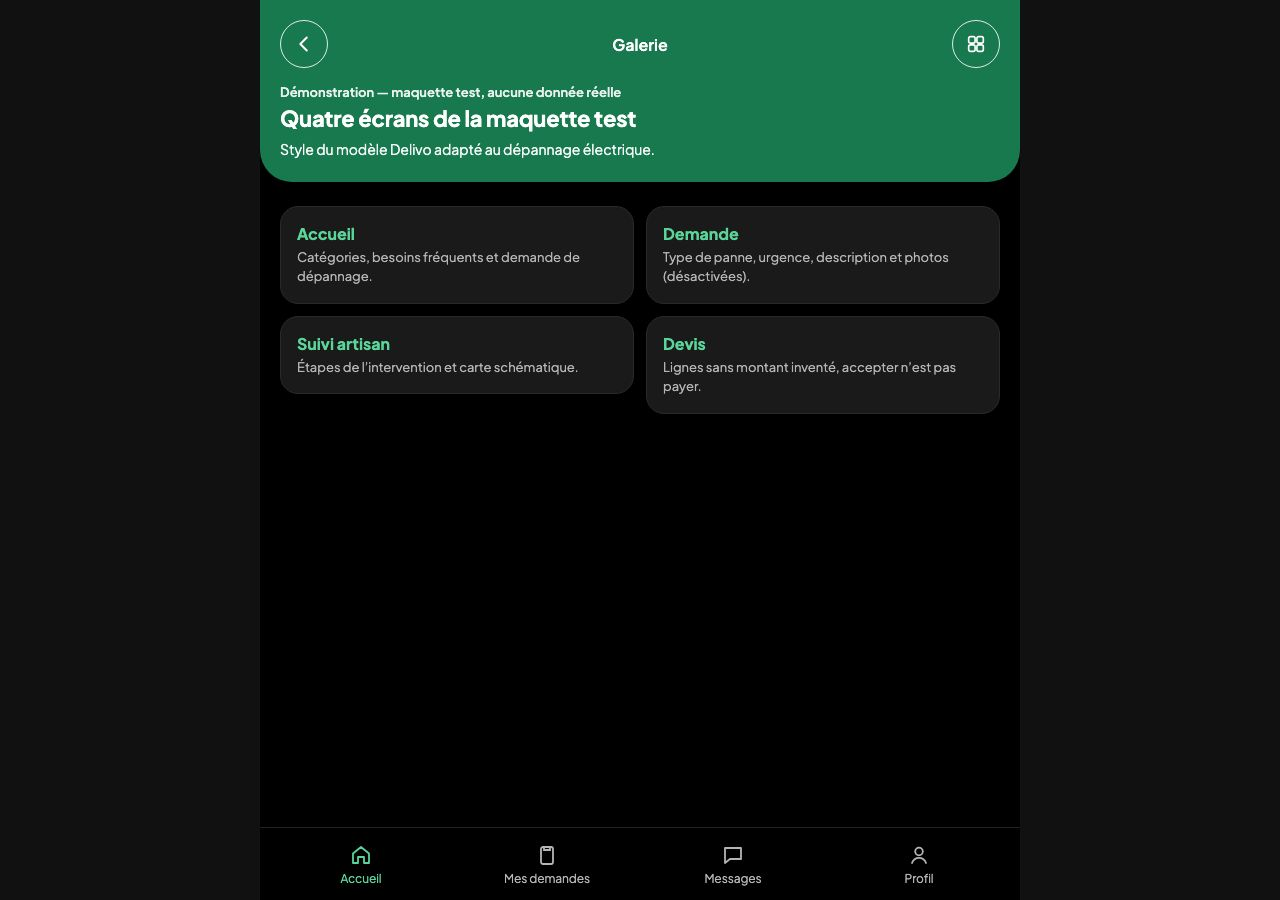
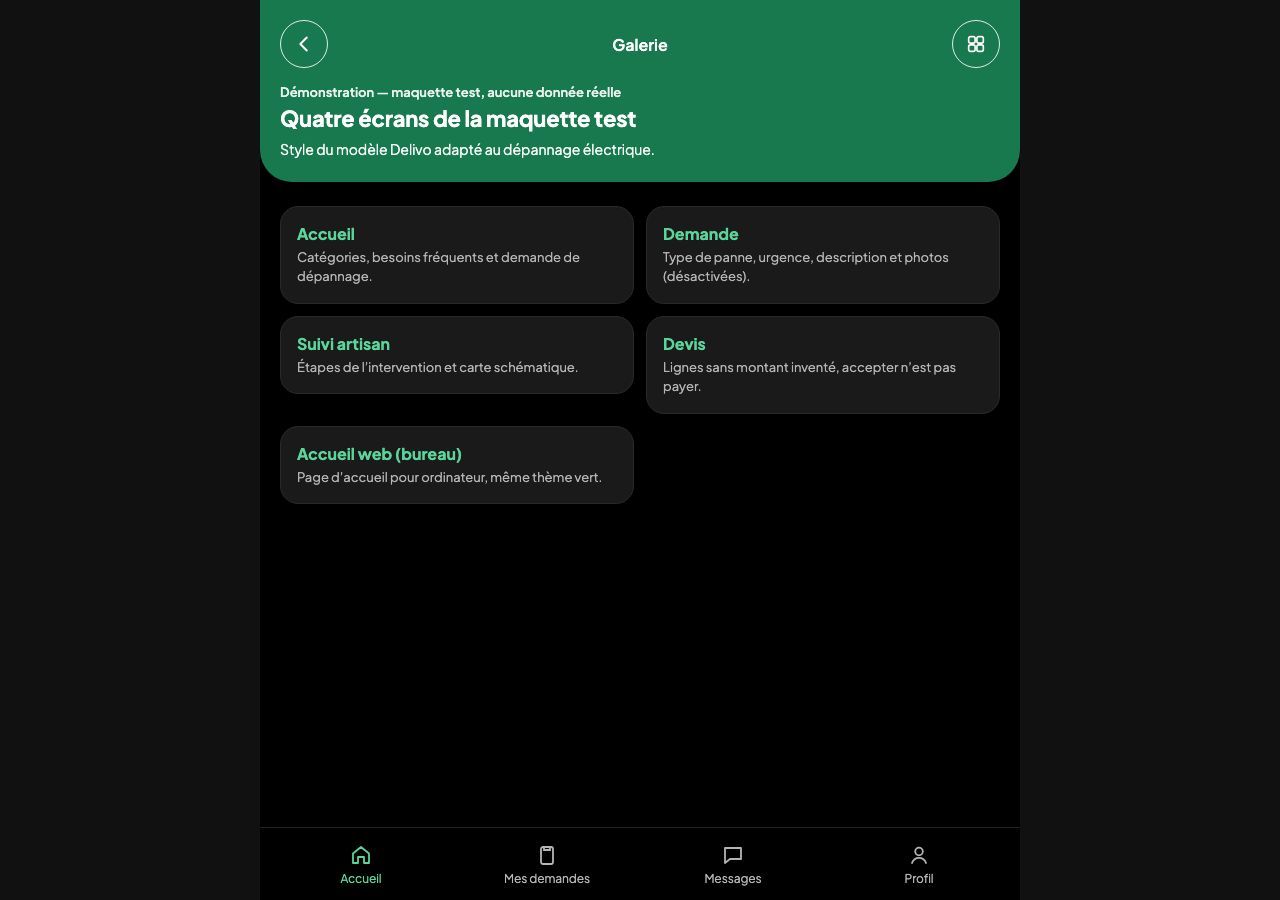
feat(prototype): desktop web home in the green theme (DESIGN-DELIVO-WEB-TEST-004)
web.html + web.css designed for 1440 (1200 px container), adapted to
1280 and 390: horizontal nav with the courant wordmark and "Dépannage
électrique", wide static PUBLICITÉ slot (local dialog only), two-column
hero with "Décrire ma panne" -> demande.html (address not put in the
URL) and the M41 image, 4 services, 3-step journey (indicative
estimate, quote before any intervention, payment as a separate step,
no timing), CTA band, sober footer; gallery link. No reviews, prices,
delays, stats or companies; no external request. 1440/1280/390: no
overflow, 44 px targets, min text contrast 5.41:1, focus, Escape;
captures web-1440/1280/390 and web-1440-focus.

Changed region(s): [[0.2188, 0.4667, 0.5, 0.56]]

diff --git a/prototypes/delivo-test/web.css b/prototypes/delivo-test/web.css
@@ -1,0 +1,139 @@
+/* Maquette test — accueil WEB bureau (DESIGN-DELIVO-WEB-TEST-004). Thème vert forêt / noir / Plus Jakarta Sans.
+   #18794E : fonds et boutons (texte blanc 5,41:1) ; #5BD49A : texte/actifs sur sombre (≥ 6,77:1). */
+@font-face { font-family: "Plus Jakarta Sans"; font-weight: 400; font-display: swap; src: url("assets/fonts/plus-jakarta-sans-400.ttf") format("truetype"); }
+@font-face { font-family: "Plus Jakarta Sans"; font-weight: 500; font-display: swap; src: url("assets/fonts/plus-jakarta-sans-500.ttf") format("truetype"); }
+@font-face { font-family: "Plus Jakarta Sans"; font-weight: 600; font-display: swap; src: url("assets/fonts/plus-jakarta-sans-600.ttf") format("truetype"); }
+@font-face { font-family: "Plus Jakarta Sans"; font-weight: 700; font-display: swap; src: url("assets/fonts/plus-jakarta-sans-700.ttf") format("truetype"); }
+
+:root {
+  --primary: #18794e;
+  --accent: #5bd49a;
+  --dark-green: #0e3b26;
+  --dark-green-line: #1f5c3d;
+  --bg: #000;
+  --surface: #141414;
+  --card: #1a1a1a;
+  --line: #2a2a2a;
+  --muted: #b5b5b5;
+  --white: #fff;
+}
+* { box-sizing: border-box; }
+html, body { margin: 0; background: var(--bg); color: var(--white); font-family: "Plus Jakarta Sans", sans-serif; font-size: 16px; line-height: 1.5; }
+a { color: inherit; }
+:focus-visible { outline: 3px solid var(--accent); outline-offset: 3px; border-radius: 8px; }
+.wrap { width: 100%; max-width: 1200px; margin: 0 auto; padding: 0 32px; }
+.skip { position: absolute; left: 16px; top: -60px; z-index: 10; padding: 10px 14px; border-radius: 10px; background: var(--white); color: #000; font-weight: 600; }
+.skip:focus { top: 12px; }
+
+/* Boutons */
+.btn { display: inline-flex; align-items: center; justify-content: center; gap: 8px; min-height: 48px; padding: 0 22px; border-radius: 14px; border: 0; font: inherit; font-size: 15px; font-weight: 600; text-decoration: none; white-space: nowrap; cursor: pointer; }
+.btn-primary { background: var(--primary); color: var(--white); }
+.btn-primary:hover { background: #136640; }
+.btn-ghost { background: transparent; color: var(--white); border: 1.5px solid #3a3a3a; }
+.btn-dark { background: #000; color: var(--white); }
+.btn-outline-light { background: transparent; color: var(--white); border: 1.5px solid rgba(255, 255, 255, 0.8); }
+.link { display: inline-flex; align-items: center; gap: 6px; min-height: 44px; color: var(--accent); font-weight: 600; text-decoration: none; }
+.link:hover { text-decoration: underline; }
+
+/* Barre haute */
+.topbar { position: sticky; top: 0; z-index: 5; background: rgba(0, 0, 0, 0.92); border-bottom: 1px solid var(--line); backdrop-filter: saturate(140%) blur(6px); }
+.topbar-inner { display: flex; align-items: center; gap: 28px; min-height: 76px; }
+.brand { display: inline-flex; align-items: center; gap: 12px; min-height: 48px; text-decoration: none; }
+.brand-mark { display: inline-flex; align-items: center; justify-content: center; width: 40px; height: 40px; border-radius: 12px; background: var(--primary); color: var(--white); }
+.brand-text { display: flex; flex-direction: column; line-height: 1.15; }
+.brand-text strong { font-size: 20px; font-weight: 700; letter-spacing: -0.3px; }
+.brand-text small { font-size: 12px; color: var(--muted); }
+.mainnav { display: flex; gap: 4px; margin-left: 8px; }
+.mainnav a { display: inline-flex; align-items: center; min-height: 44px; padding: 0 14px; border-radius: 10px; color: #e8e8e8; font-size: 15px; font-weight: 500; text-decoration: none; }
+.mainnav a:hover { background: #151515; color: var(--accent); }
+.topbar-actions { display: flex; gap: 10px; margin-left: auto; }
+
+main { padding-bottom: 72px; }
+.demo-tag { margin: 18px 0 12px; font-size: 13px; font-weight: 600; color: var(--accent); }
+
+/* Bandeau publicitaire large et statique */
+.ad { position: relative; display: block; height: 120px; overflow: hidden; border-radius: 20px; border: 1.5px dashed rgba(255, 255, 255, 0.55); background: var(--dark-green); text-decoration: none; }
+.ad-label { position: absolute; left: 16px; top: 14px; padding: 3px 10px; border-radius: 8px; background: rgba(0, 0, 0, 0.72); font-size: 12px; font-weight: 700; letter-spacing: 0.8px; }
+.ad-body { position: absolute; inset: 0; display: flex; align-items: center; justify-content: center; gap: 12px; font-size: 18px; font-weight: 600; }
+.ad-body svg { color: var(--accent); }
+.ad .ad-media { position: absolute; inset: 0; width: 100%; height: 100%; object-fit: cover; }
+
+/* Héros deux colonnes */
+.hero { display: grid; grid-template-columns: minmax(0, 1.05fr) minmax(0, 1fr); gap: 56px; align-items: center; padding: 56px 0 24px; }
+.eyebrow { margin: 0 0 12px; font-size: 14px; font-weight: 700; letter-spacing: 0.6px; text-transform: uppercase; color: var(--accent); }
+.hero h1 { margin: 0 0 18px; font-size: 52px; line-height: 1.08; font-weight: 700; letter-spacing: -1.2px; }
+.lead { margin: 0 0 28px; max-width: 560px; font-size: 18px; color: #d4d4d4; }
+.hero-form label { display: block; margin-bottom: 8px; font-size: 14px; font-weight: 600; color: #e8e8e8; }
+.hero-field { display: flex; align-items: center; gap: 10px; padding: 8px 8px 8px 18px; border-radius: 18px; background: var(--card); border: 1px solid var(--line); max-width: 560px; }
+.hero-field svg { flex-shrink: 0; color: var(--accent); }
+.hero-field input { flex: 1; min-width: 0; height: 48px; border: 0; background: transparent; color: var(--white); font: inherit; font-size: 16px; outline: none; }
+.hero-field input::placeholder { color: #8f8f8f; }
+.hero-field:focus-within { outline: 3px solid var(--accent); outline-offset: 2px; }
+.note { margin: 14px 0 0; font-size: 14px; color: var(--muted); }
+.hero-media { margin: 0; overflow: hidden; border-radius: 28px; background: var(--surface); border: 1px solid var(--line); aspect-ratio: 4 / 3; }
+.hero-media img { width: 100%; height: 100%; object-fit: cover; display: block; }
+
+/* Sections */
+.section { padding: 48px 0 8px; }
+.section-head { display: flex; align-items: center; justify-content: space-between; gap: 16px; margin-bottom: 20px; }
+.section-head h2 { margin: 0; font-size: 30px; font-weight: 700; letter-spacing: -0.6px; }
+.services { list-style: none; margin: 0; padding: 0; display: grid; grid-template-columns: repeat(4, minmax(0, 1fr)); gap: 18px; }
+.service { display: grid; gap: 10px; height: 100%; min-height: 180px; padding: 22px; border-radius: 22px; background: var(--card); border: 1px solid var(--line); text-decoration: none; }
+.service:hover { border-color: var(--dark-green-line); }
+.service-icon { display: inline-flex; align-items: center; justify-content: center; width: 52px; height: 52px; border-radius: 16px; background: var(--dark-green); color: var(--accent); }
+.service strong { font-size: 18px; }
+.service span:last-child { font-size: 15px; color: var(--muted); }
+.journey { list-style: none; margin: 0; padding: 0; display: grid; grid-template-columns: repeat(3, minmax(0, 1fr)); gap: 18px; }
+.journey li { display: flex; gap: 16px; padding: 24px; border-radius: 22px; background: var(--surface); border: 1px solid var(--line); }
+.step-num { display: inline-flex; align-items: center; justify-content: center; flex-shrink: 0; width: 44px; height: 44px; border-radius: 50%; background: var(--primary); font-weight: 700; }
+.journey h3 { margin: 0 0 6px; font-size: 18px; }
+.journey p { margin: 0 0 6px; font-size: 15px; color: var(--muted); }
+.cta-band { display: flex; align-items: center; justify-content: space-between; gap: 24px; margin-top: 56px; padding: 36px 40px; border-radius: 28px; background: var(--primary); }
+.cta-band h2 { margin: 0 0 6px; font-size: 28px; letter-spacing: -0.4px; }
+.cta-band p { margin: 0; font-size: 16px; }
+.cta-actions { display: flex; gap: 12px; flex-wrap: wrap; }
+
+.footer { border-top: 1px solid var(--line); background: #070707; }
+.footer-inner { display: flex; align-items: center; justify-content: space-between; gap: 16px; flex-wrap: wrap; min-height: 88px; }
+.footer nav { display: flex; gap: 6px; flex-wrap: wrap; }
+.footer nav a { display: inline-flex; align-items: center; min-height: 44px; padding: 0 12px; color: var(--muted); font-size: 14px; text-decoration: none; }
+.footer nav a:hover { color: var(--accent); }
+
+dialog { width: min(92vw, 420px); padding: 24px; border: 0; border-radius: 20px; background: var(--card); color: var(--white); }
+dialog::backdrop { background: rgba(0, 0, 0, 0.7); }
+dialog h2 { margin: 0 0 8px; font-size: 20px; }
+dialog p { margin: 0 0 16px; color: #ddd; }
+
+/* 1280 et moins : plus serré */
+@media (max-width: 1320px) {
+  .hero h1 { font-size: 46px; }
+  .mainnav a { padding: 0 10px; }
+}
+/* Tablette */
+@media (max-width: 1100px) {
+  .mainnav { display: none; }
+  .hero { grid-template-columns: 1fr; gap: 32px; padding-top: 36px; }
+  .services { grid-template-columns: repeat(2, minmax(0, 1fr)); }
+  .journey { grid-template-columns: 1fr; }
+}
+/* Mobile */
+@media (max-width: 640px) {
+  .wrap { padding: 0 18px; }
+  .topbar-inner { gap: 12px; min-height: 68px; }
+  .brand-text small { display: none; }
+  .btn-ghost { display: none; }
+  .topbar-actions .btn-primary { padding: 0 14px; font-size: 14px; }
+  .ad { height: 104px; }
+  .ad-body { font-size: 16px; }
+  .hero h1 { font-size: 32px; letter-spacing: -0.6px; }
+  .lead { font-size: 16px; }
+  .hero-field { flex-wrap: wrap; padding: 8px; }
+  .hero-field svg { margin-left: 8px; }
+  .hero-field .btn { width: 100%; }
+  .section-head h2 { font-size: 24px; }
+  .services { grid-template-columns: 1fr; }
+  .service { min-height: 0; }
+  .cta-band { flex-direction: column; align-items: flex-start; padding: 28px 22px; }
+  .cta-actions { width: 100%; }
+  .cta-actions .btn { flex: 1 1 100%; }
+}

diff --git a/prototypes/delivo-test/web.html b/prototypes/delivo-test/web.html
@@ -1,0 +1,126 @@
+<!doctype html>
+<html lang="fr">
+<head>
+  <meta charset="utf-8" />
+  <meta name="viewport" content="width=device-width, initial-scale=1" />
+  <title>Maquette test — Accueil web, dépannage électrique</title>
+  <link rel="stylesheet" href="web.css" />
+</head>
+<body>
+  <a class="skip" href="#contenu">Aller au contenu</a>
+
+  <header class="topbar">
+    <div class="wrap topbar-inner">
+      <a class="brand" href="web.html" aria-label="courant — Dépannage électrique, accueil">
+        <span class="brand-mark" aria-hidden="true">
+          <svg viewBox="0 0 24 24" width="22" height="22"><path d="M13 2L5 14h6l-1 8 8-12h-6l1-8z" fill="currentColor"/></svg>
+        </span>
+        <span class="brand-text"><strong>courant</strong><small>Dépannage électrique</small></span>
+      </a>
+      <nav class="mainnav" aria-label="Navigation principale">
+        <a href="#services">Services</a>
+        <a href="#parcours">Comment ça marche</a>
+        <a href="#" data-open="Espace professionnel">Espace pro</a>
+        <a href="suivi.html">Mes demandes</a>
+      </nav>
+      <div class="topbar-actions">
+        <a class="btn btn-ghost" href="#" data-open="Se connecter">Se connecter</a>
+        <a class="btn btn-primary" href="demande.html">Décrire ma panne</a>
+      </div>
+    </div>
+  </header>
+
+  <main id="contenu">
+    <div class="wrap">
+      <p class="demo-tag">Maquette test — aucune donnée réelle</p>
+
+      <!-- Emplacement publicitaire STATIQUE (maquette) : prêt pour une image future (<img class="ad-media" … alt="…">). -->
+      <a class="ad" href="#" data-open="Emplacement publicitaire" aria-label="Publicité : emplacement disponible (démonstration)">
+        <span class="ad-label">PUBLICITÉ</span>
+        <span class="ad-body">
+          <svg viewBox="0 0 24 24" width="28" height="28" aria-hidden="true"><rect x="3" y="5" width="18" height="14" rx="3" fill="none" stroke="currentColor" stroke-width="1.6"/><circle cx="9" cy="10" r="1.8" fill="none" stroke="currentColor" stroke-width="1.6"/><path d="M4 17l5-4 4 3 3-2 4 3" fill="none" stroke="currentColor" stroke-width="1.6" stroke-linejoin="round"/></svg>
+          Votre publicité ici
+        </span>
+      </a>
+
+      <section class="hero" aria-labelledby="hero-title">
+        <div class="hero-text">
+          <p class="eyebrow">Dépannage électrique</p>
+          <h1 id="hero-title">Une panne électrique&nbsp;? Décrivez-la, on s’occupe de la suite.</h1>
+          <p class="lead">Coupure, prise, tableau ou éclairage : décrivez le problème en quelques étapes. Vous voyez une estimation indicative, puis un devis avant toute intervention.</p>
+          <form class="hero-form" action="demande.html" method="get">
+            <label for="adresse">Adresse d’intervention</label>
+            <div class="hero-field">
+              <svg viewBox="0 0 24 24" width="20" height="20" aria-hidden="true"><path d="M12 21s-7-6.2-7-11.5A7 7 0 0 1 19 9.5C19 14.8 12 21 12 21z" fill="none" stroke="currentColor" stroke-width="2"/><circle cx="12" cy="9.5" r="2.5" fill="none" stroke="currentColor" stroke-width="2"/></svg>
+              <input id="adresse" type="text" placeholder="Rue, commune" autocomplete="off" />
+              <button class="btn btn-primary" type="submit">Décrire ma panne</button>
+            </div>
+          </form>
+        </div>
+        <figure class="hero-media">
+          <img src="assets/electricite.jpg" alt="Illustration d’une intervention sur un tableau électrique" width="640" height="360" />
+        </figure>
+      </section>
+
+      <section id="services" class="section" aria-labelledby="services-title">
+        <div class="section-head">
+          <h2 id="services-title">Nos services</h2>
+          <a class="link" href="demande.html">Décrire ma panne <span aria-hidden="true">→</span></a>
+        </div>
+        <ul class="services">
+          <li><a class="service" href="#" data-open="Panne de courant">
+            <span class="service-icon" aria-hidden="true"><svg viewBox="0 0 24 24" width="24" height="24"><path d="M13 2L5 14h6l-1 8 8-12h-6l1-8z" fill="currentColor"/></svg></span>
+            <strong>Panne de courant</strong><span>Coupure totale ou partielle, disjoncteur qui saute.</span></a></li>
+          <li><a class="service" href="#" data-open="Prise ou interrupteur">
+            <span class="service-icon" aria-hidden="true"><svg viewBox="0 0 24 24" width="24" height="24"><rect x="4" y="4" width="16" height="16" rx="4" fill="none" stroke="currentColor" stroke-width="2"/><circle cx="9.5" cy="12" r="1.4" fill="currentColor"/><circle cx="14.5" cy="12" r="1.4" fill="currentColor"/></svg></span>
+            <strong>Prise / interrupteur</strong><span>Prise qui ne fonctionne plus, interrupteur abîmé.</span></a></li>
+          <li><a class="service" href="#" data-open="Tableau électrique">
+            <span class="service-icon" aria-hidden="true"><svg viewBox="0 0 24 24" width="24" height="24"><rect x="4" y="3" width="16" height="18" rx="2" fill="none" stroke="currentColor" stroke-width="2"/><path d="M8 8v3M12 8v3M16 8v3M8 15h8" stroke="currentColor" stroke-width="2" stroke-linecap="round"/></svg></span>
+            <strong>Tableau électrique</strong><span>Diagnostic, remise en service, protection.</span></a></li>
+          <li><a class="service" href="#" data-open="Éclairage">
+            <span class="service-icon" aria-hidden="true"><svg viewBox="0 0 24 24" width="24" height="24"><path d="M9 18h6M10 21h4M12 3a6 6 0 0 0-3.5 10.9c.6.5 1 1.2 1 2.1h5c0-.9.4-1.6 1-2.1A6 6 0 0 0 12 3z" fill="none" stroke="currentColor" stroke-width="2" stroke-linejoin="round"/></svg></span>
+            <strong>Éclairage</strong><span>Point lumineux, luminaire, circuit d’éclairage.</span></a></li>
+        </ul>
+      </section>
+
+      <section id="parcours" class="section" aria-labelledby="journey-title">
+        <div class="section-head"><h2 id="journey-title">Comment ça marche</h2></div>
+        <ol class="journey">
+          <li><span class="step-num">1</span><div><h3>Estimation indicative</h3><p>Vous décrivez la panne ; une fourchette indicative s’affiche. Ce n’est pas un prix garanti.</p></div></li>
+          <li><span class="step-num">2</span><div><h3>Devis avant toute intervention</h3><p>L’artisan propose un devis détaillé. Rien n’est engagé tant que vous ne l’avez pas accepté.</p><a class="link" href="devis.html">Voir un exemple de devis <span aria-hidden="true">→</span></a></div></li>
+          <li><span class="step-num">3</span><div><h3>Paiement, étape distincte</h3><p>Le paiement est une étape séparée de l’acceptation du devis.</p></div></li>
+        </ol>
+      </section>
+
+      <section class="cta-band" aria-labelledby="cta-title">
+        <div>
+          <h2 id="cta-title">Prêt à décrire votre panne&nbsp;?</h2>
+          <p>Quelques informations suffisent pour préparer la demande.</p>
+        </div>
+        <div class="cta-actions">
+          <a class="btn btn-dark" href="demande.html">Décrire ma panne</a>
+          <a class="btn btn-outline-light" href="suivi.html">Suivre une demande</a>
+        </div>
+      </section>
+    </div>
+  </main>
+
+  <footer class="footer">
+    <div class="wrap footer-inner">
+      <span class="brand-text small"><strong>courant</strong><small>Dépannage électrique — maquette test</small></span>
+      <nav aria-label="Liens de pied de page">
+        <a href="#" data-open="Mentions légales">Mentions légales</a>
+        <a href="#" data-open="Confidentialité">Confidentialité</a>
+        <a href="galerie.html">Écrans mobiles</a>
+      </nav>
+    </div>
+  </footer>
+
+  <dialog id="test-dialog" aria-labelledby="dialog-title" aria-describedby="dialog-text">
+    <h2 id="dialog-title">Maquette test</h2>
+    <p id="dialog-text">« <span id="dialog-subject"></span> » : dans l’application réelle, cette action serait traitée par le service. Ici, rien n’est envoyé.</p>
+    <form method="dialog"><button class="btn btn-primary" value="close" autofocus>Fermer</button></form>
+  </dialog>
+  <script src="dialog.js"></script>
+</body>
+</html>

diff --git a/prototypes/delivo-test/galerie.html b/prototypes/delivo-test/galerie.html
@@ -25,6 +25,7 @@
           <li><a class="gallery-card" href="demande.html"><strong>Demande</strong><span class="hint">Type de panne, urgence, description et photos (désactivées).</span></a></li>
           <li><a class="gallery-card" href="suivi.html"><strong>Suivi artisan</strong><span class="hint">Étapes de l’intervention et carte schématique.</span></a></li>
           <li><a class="gallery-card" href="devis.html"><strong>Devis</strong><span class="hint">Lignes sans montant inventé, accepter n’est pas payer.</span></a></li>
+          <li><a class="gallery-card" href="web.html"><strong>Accueil web (bureau)</strong><span class="hint">Page d’accueil pour ordinateur, même thème vert.</span></a></li>
         </ul>
       </nav>
     </main>
